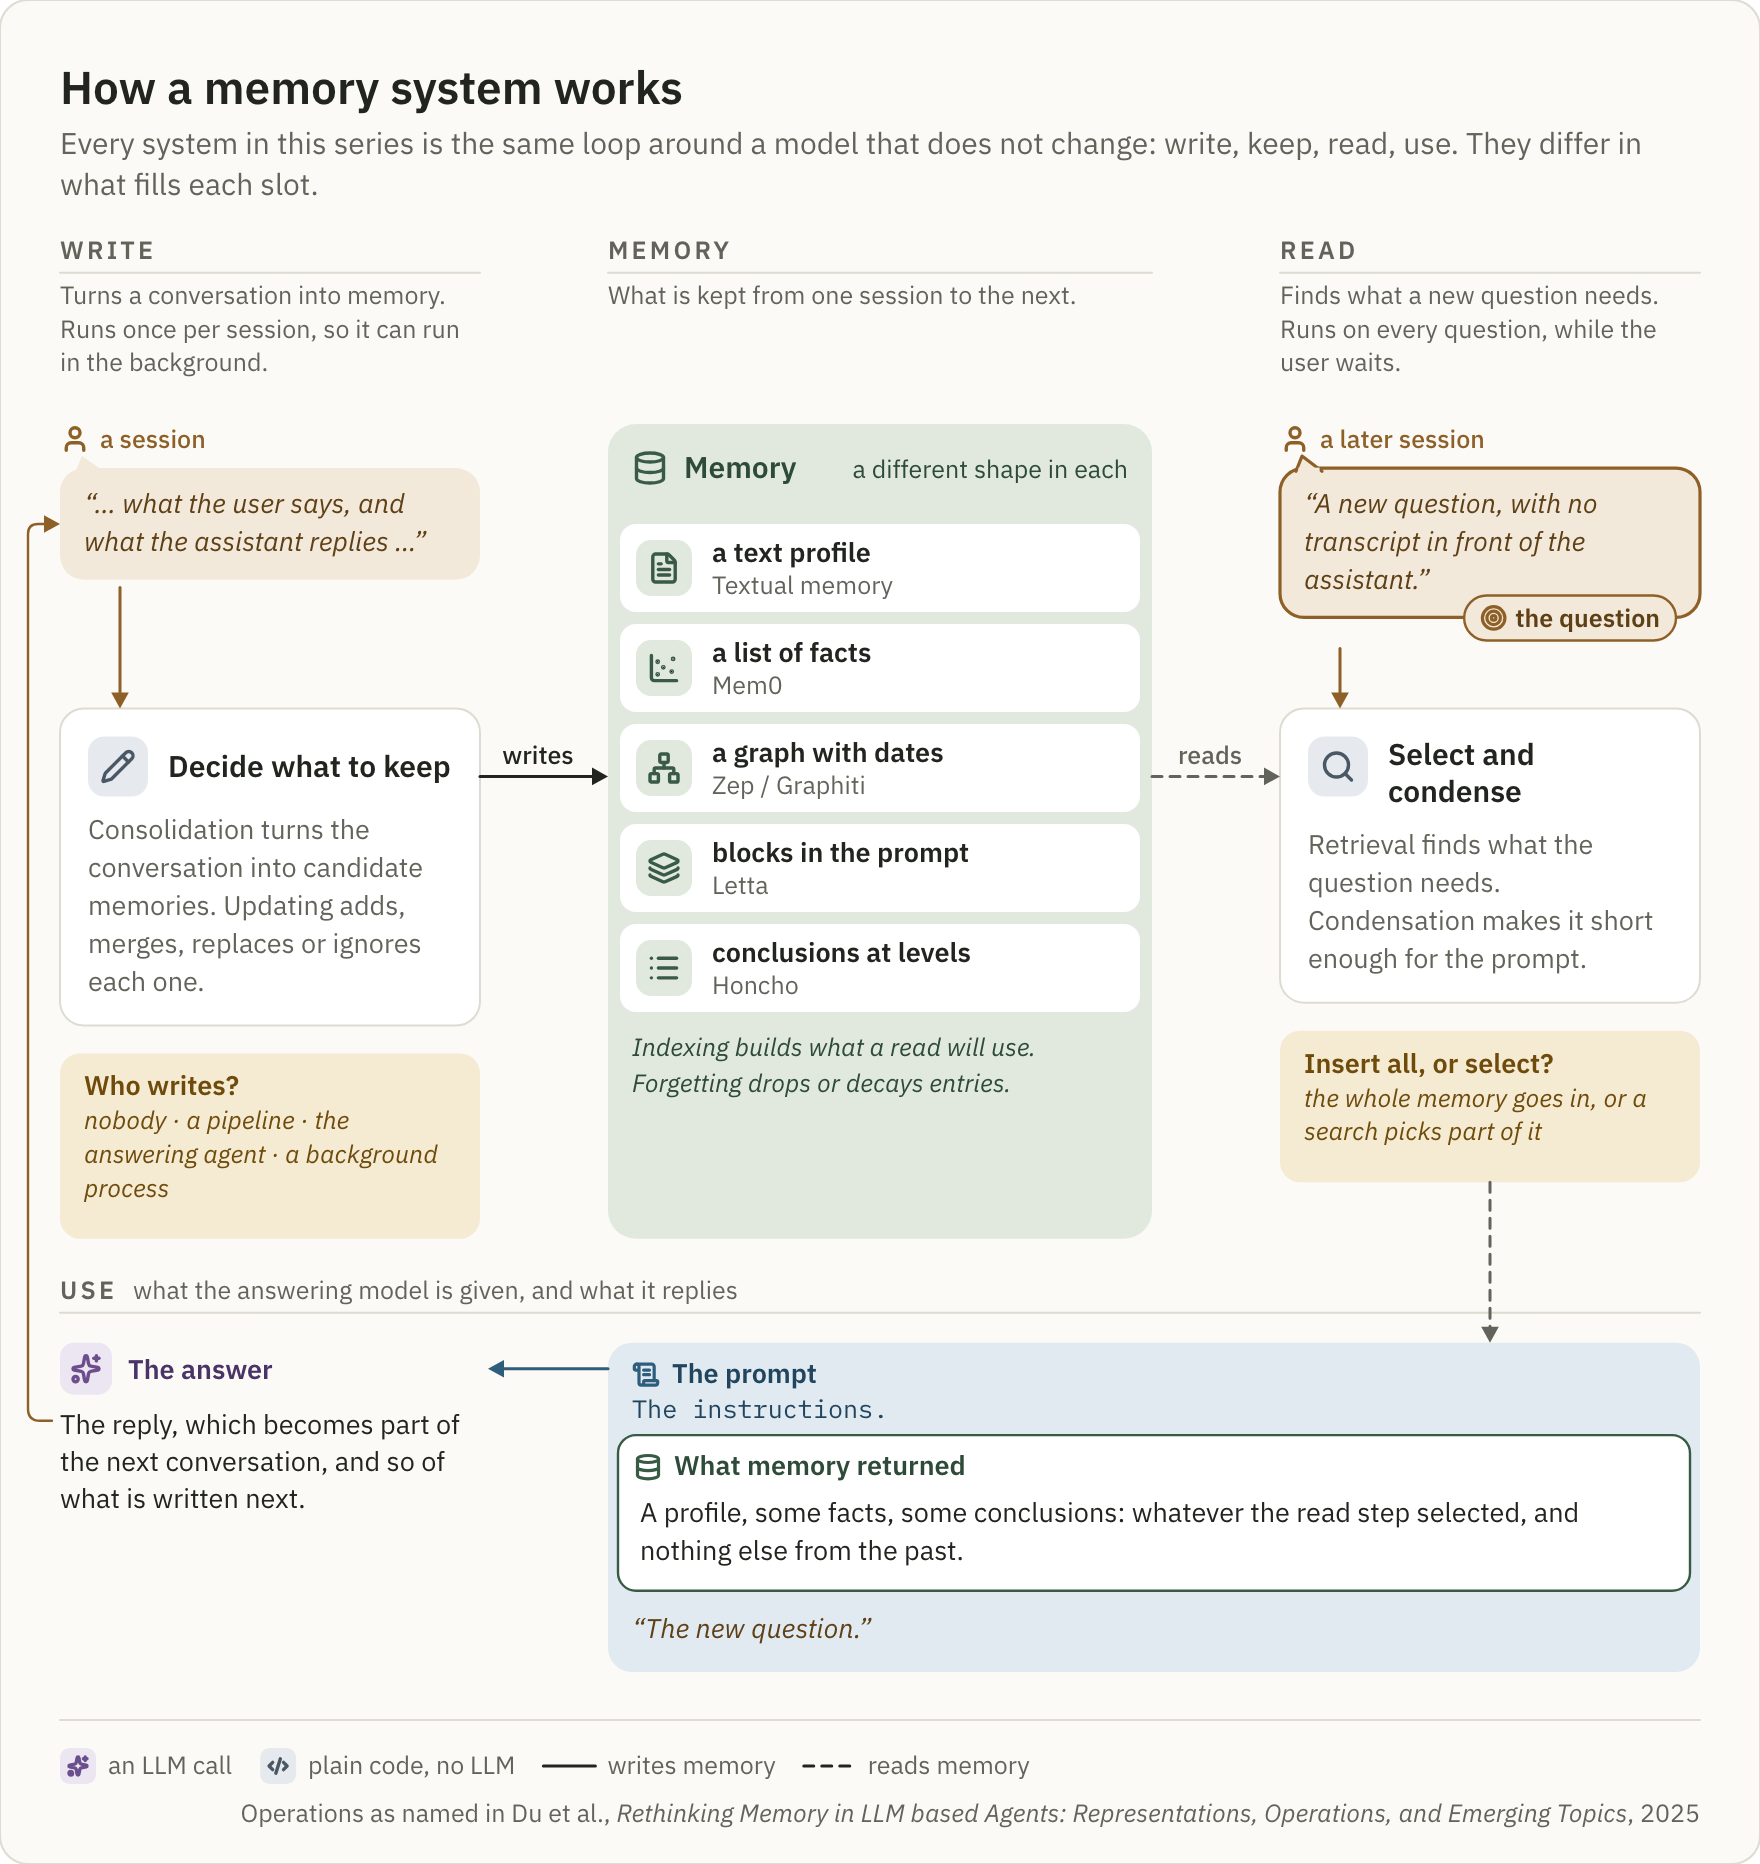
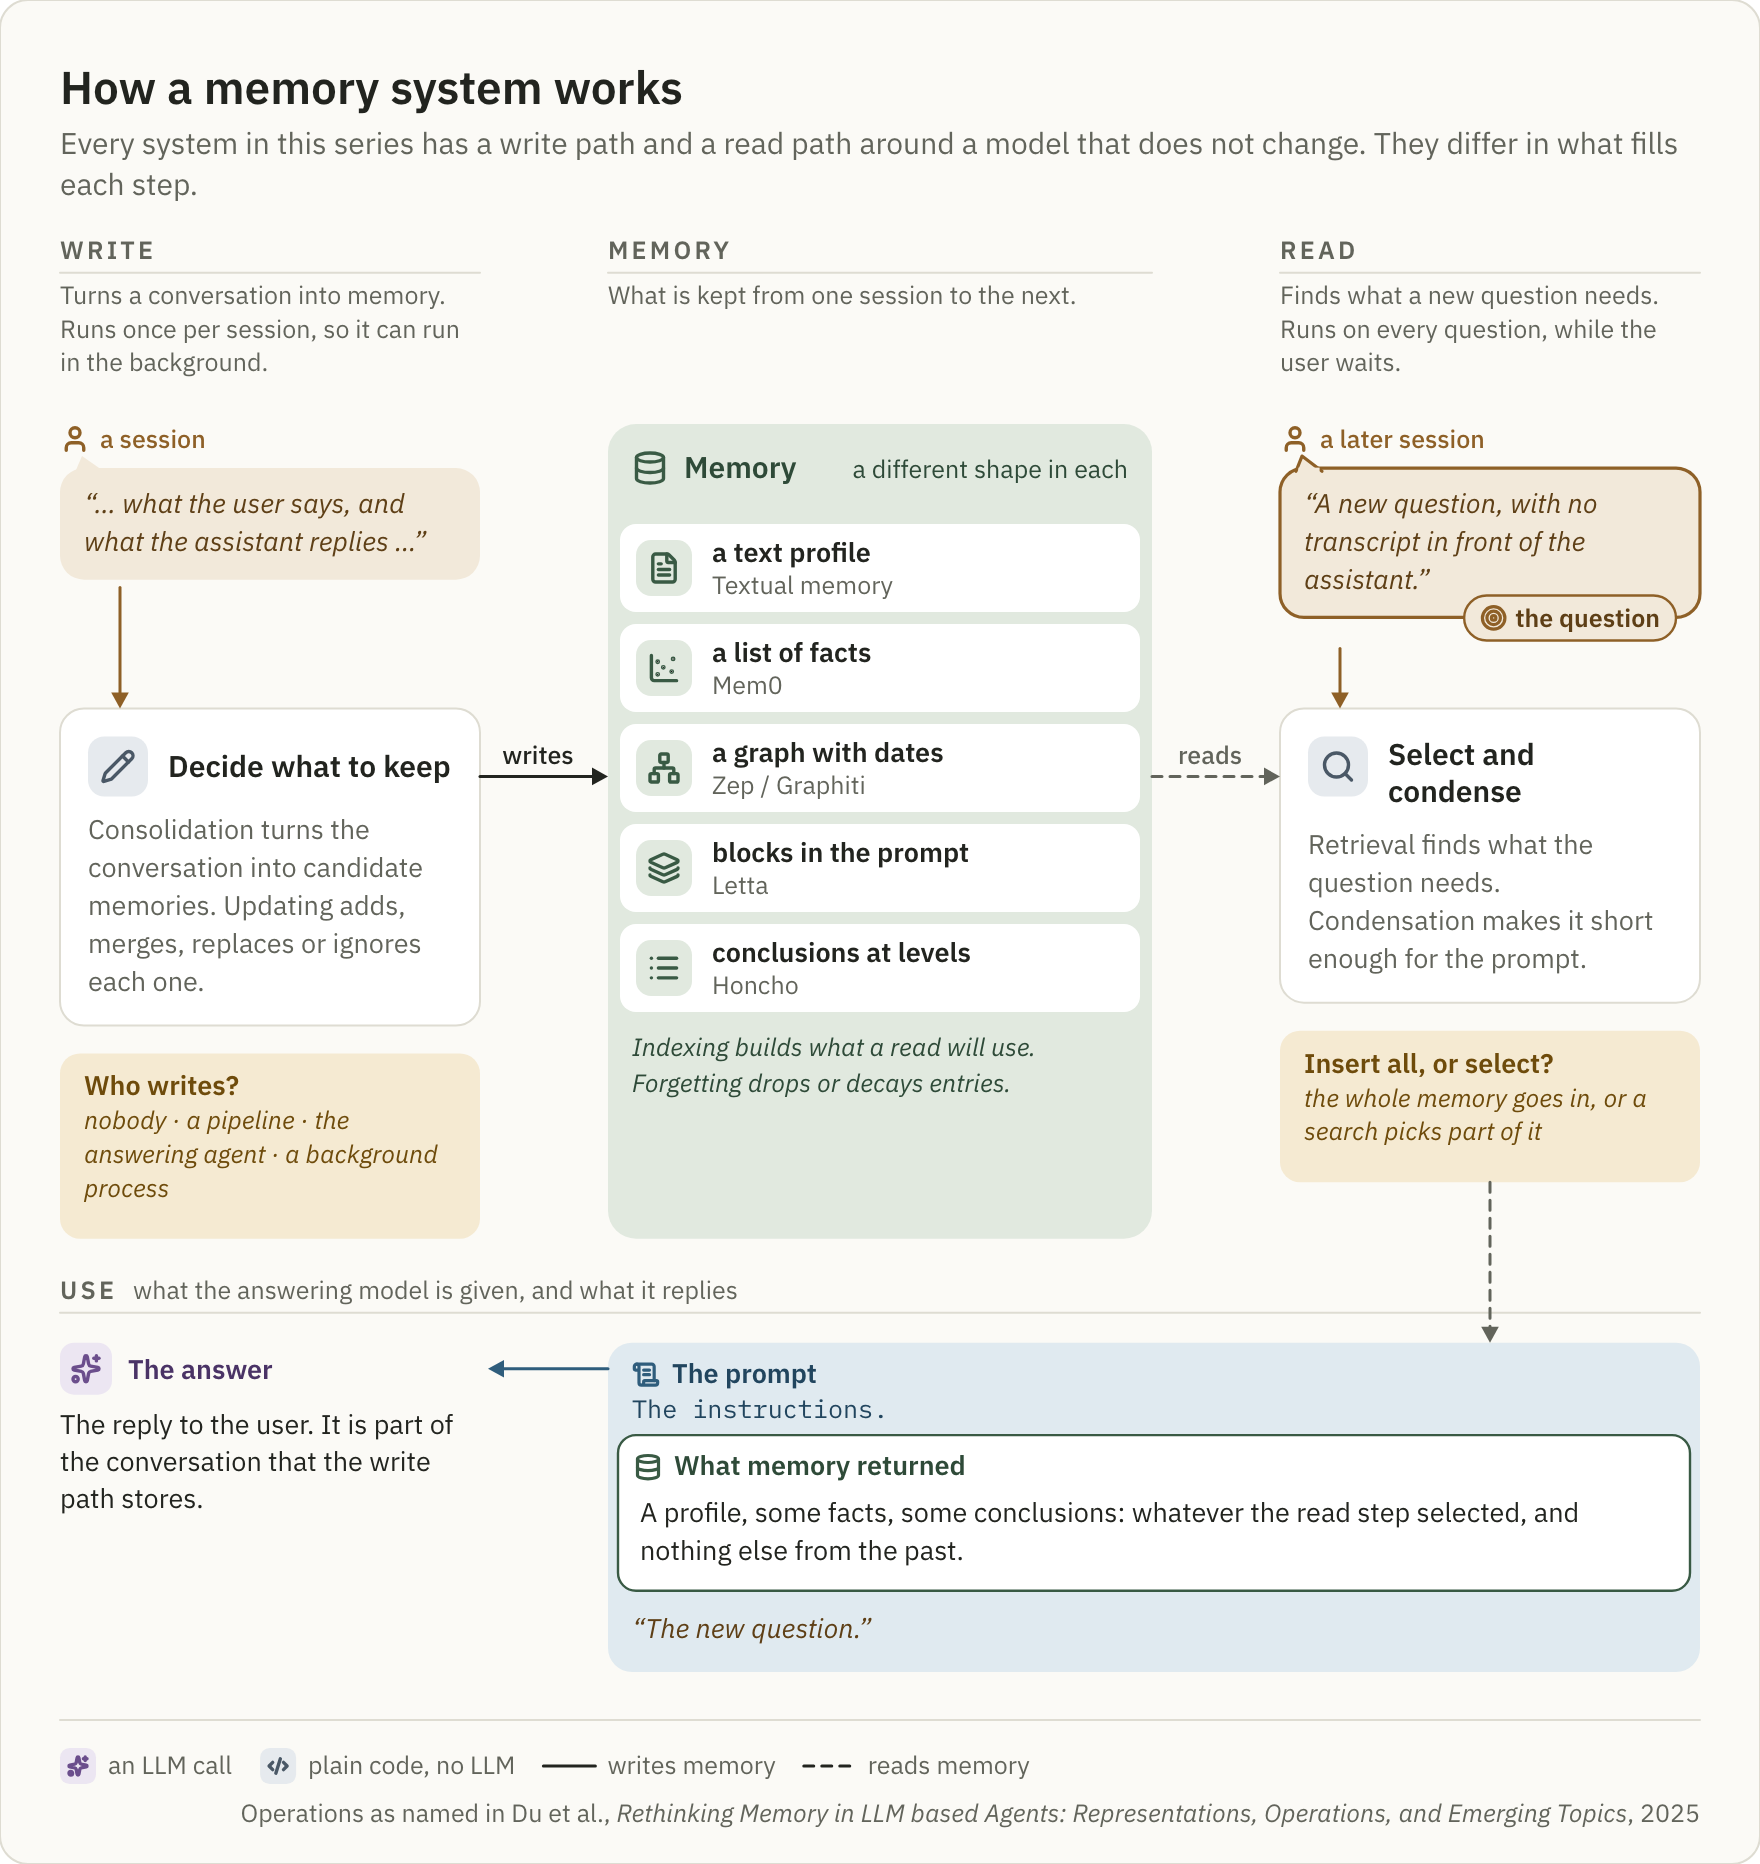
Describe the overview as two paths instead of a loop
- The overview figure's subtitle and alt text say "write path and read path", and the arrow that closed the loop is removed, to match part 2 of the series.
- The same wording in the README's alt text, notebook 00's introduction cell and image alt text, and the frame's comment in kit.py.

diff --git a/scripts/diagrams/figures/overview.py b/scripts/diagrams/figures/overview.py
@@ -13,13 +13,14 @@ from ..theme import SMALL, TINY, Theme
 
 NAME = "overview"
 TITLE = "How a memory system works"
-ALT = ("The loop every memory system in the series is built on. Write: a conversation is turned "
+ALT = ("The two paths every memory system in the series is built on, around a model that does not "
+       "change. Write: a conversation is turned "
        "into memory (consolidation, updating), and the question is who writes: nobody, a "
        "pipeline, the answering agent or a background process. Memory: what is kept, in a shape "
        "that differs per system (a text profile, a list of facts, a dated graph, blocks in the "
        "prompt, conclusions at levels). Read: a new question gets what it needs (retrieval, "
        "condensation), and the question is whether everything is inserted or a search selects. "
-       "Use: the answering model gets instructions, what memory returned, and the question.")
+       "Use: the answering model gets instructions, what memory returned, and the question, and replies.")
 
 # Where the six operations are named (arXiv 2505.00675).
 CITATION = [("Operations as named in Du et al., ", SANS),
@@ -41,8 +42,8 @@ def draw(theme: Theme) -> Canvas:
     t = theme
     top = frame(
         c, "How a memory system works",
-        "Every system in this series is the same loop around a model that does not change: "
-        "write, keep, read, use. They differ in what fills each slot.")
+        "Every system in this series has a write path and a read path around a model that does "
+        "not change. They differ in what fills each step.")
 
     wx, ww = column("write")
     b1 = bubble(c, wx, top, ww, "a session", "“… what the user says, and what the assistant "
@@ -82,13 +83,9 @@ def draw(theme: Theme) -> Canvas:
                  "A profile, some facts, some conclusions: whatever the read step selected, and "
                  "nothing else from the past.")], "“The new question.”")
     arrow(c, [(r_q.cx, r_q.bottom), (r_q.cx, prompt.y)], t.muted, dashed=True)
-    answer = answer_card(c, wx, band + 22, ww, "The reply, which becomes part of the next "
-                         "conversation, and so of what is written next.")
+    answer = answer_card(c, wx, band + 22, ww, "The reply to the user. It is part of the "
+                         "conversation that the write path stores.")
     arrow(c, [(prompt.x, band + 22 + 13), (answer.right + 4, band + 22 + 13)], t["prompt"].accent)
-    # the loop closes: the answer goes back into the conversation, up the left margin
-    ay = band + 22 + 13
-    arrow(c, [(wx - 4, ay + 26), (14, ay + 26), (14, b1.y + 50), (wx, b1.y + 50)],
-          t["person"].accent, radius=8, width=1.2)
     footer(c, max(prompt.bottom, answer.bottom) + 24, CITATION)
     return c
 

diff --git a/scripts/diagrams/kit.py b/scripts/diagrams/kit.py
@@ -497,8 +497,8 @@ def vector_strip(c: Canvas, x: float, y: float, seed: str, colour: str, bars: in
 # ---- The shared frame ----
 #
 # Write on the left, the memory between, read on the right; under them, the prompt the read
-# feeds and the answer it produces. Read clockwise, it is the loop of Part 2: a conversation
-# is written to memory, a later question reads it, and the answer becomes conversation again.
+# feeds and the answer it produces: the write path and the read path of Part 2. A conversation
+# is written to memory, and a later question reads what it needs from it.
 
 W = 880
 M = 30

diff --git a/README.md b/README.md
@@ -13,7 +13,7 @@ a larger scale on the knowledge-update questions of
 
 <picture>
   <source media="(prefers-color-scheme: dark)" srcset="docs/figures/architecture/overview-dark.svg">
-  <img alt="The loop every memory system in the series is built on. Write: a conversation is turned into memory (consolidation, updating), and the question is who writes: nobody, a pipeline, the answering agent or a background process. Memory: what is kept, in a shape that differs per system (a text profile, a list of facts, a dated graph, blocks in the prompt, conclusions at levels). Read: a new question gets what it needs (retrieval, condensation), and the question is whether everything is inserted or a search selects. Use: the answering model gets instructions, what memory returned, and the question." src="docs/figures/architecture/overview.svg">
+  <img alt="The two paths every memory system in the series is built on, around a model that does not change. Write: a conversation is turned into memory (consolidation, updating), and the question is who writes: nobody, a pipeline, the answering agent or a background process. Memory: what is kept, in a shape that differs per system (a text profile, a list of facts, a dated graph, blocks in the prompt, conclusions at levels). Read: a new question gets what it needs (retrieval, condensation), and the question is whether everything is inserted or a search selects. Use: the answering model gets instructions, what memory returned, and the question." src="docs/figures/architecture/overview.svg">
 </picture>
 
 ## Systems covered
